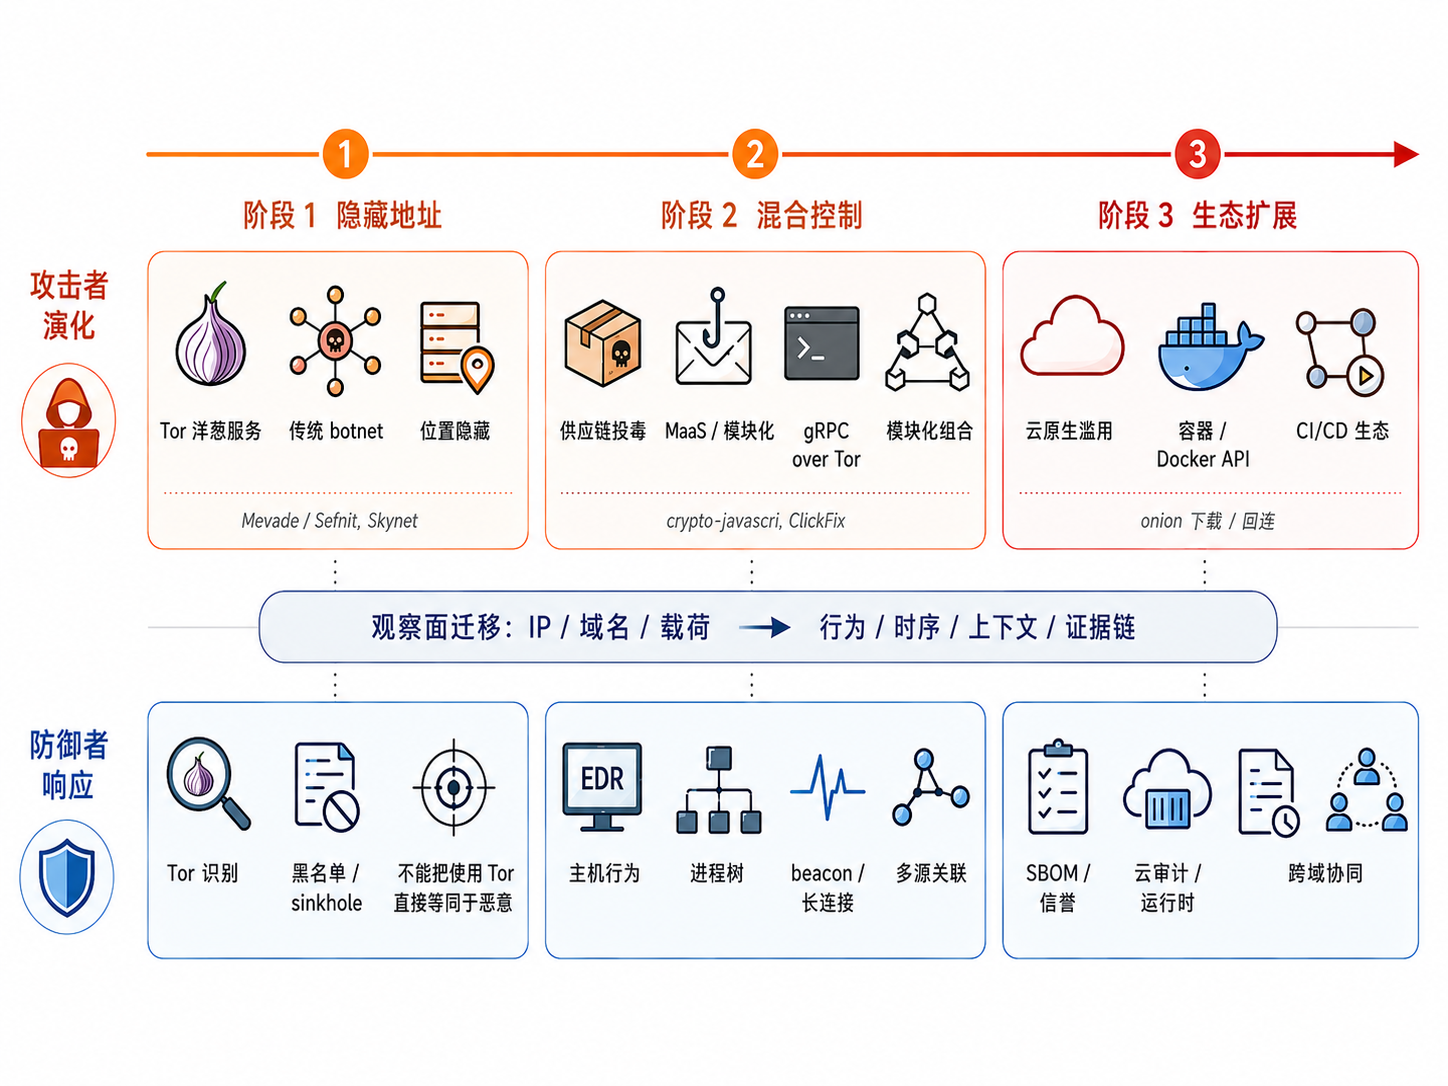
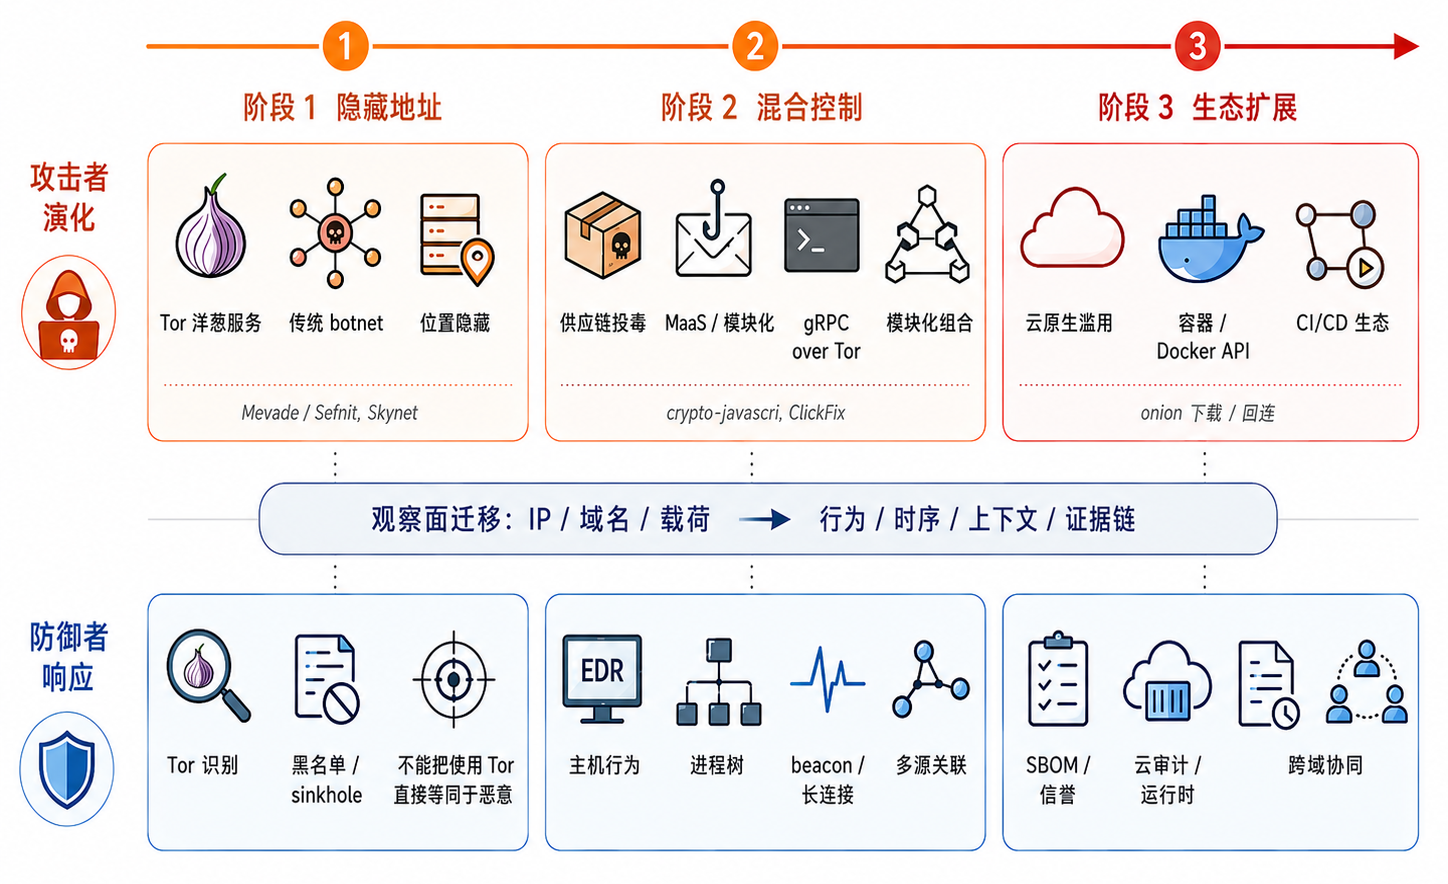
Sync from Accept

diff --git a/conclusion.tex b/conclusion.tex
@@ -7,3 +7,8 @@
 
 
 匿名网络既是保护隐私与抵抗审查的重要基础设施，也是网络攻防对抗中可能被滥用的双重用途技术。后续研究不宜停留在单点攻击、单点防御或单一检测模型上，而应将匿名通信机制、真实网络部署、恶意基础设施滥用、隐私保护检测和比例适当治理放入同一系统框架中考虑。在保障合法匿名通信价值的同时建立可解释、可部署、可审计的滥用检测与响应机制，是匿名网络在隐私保护与安全治理之间走向可持续发展的关键所在。
+
+\section{分工}
+在本次大作业的完成过程中，梁峻玮负责了引言与匿名网络基础章节的调研与撰写，田丰睿负责了Tor网络部分的调研与撰写，李青宇负责了僵尸网络及真实案例部分的调研与撰写。最后讨论与总结部分，以及PPT的制作由三人共同完成。
+
+在实际的工作过程中，我们借助AI完成了一些任务，具体有调研报告插图的制作、辅助文献的阅读与理解、润色调研报告、辅助PPT制作。